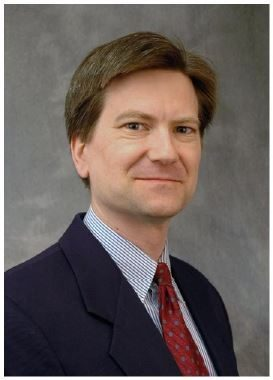
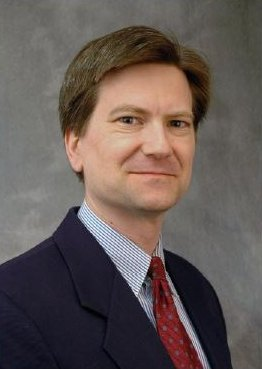
Drafts D-05: retitle "Meet Our Past Luminaries" + tighter intro copy; crop white frame off Burgdorf photo

diff --git a/index.html b/index.html
@@ -3379,9 +3379,8 @@ body.menu-open .site-header{ -webkit-backdrop-filter:none; backdrop-filter:none;
     </style>
     <div class="wrap">
       <div class="lum-head">
-        <span class="lum-eyebrow">Past Luminaries</span>
-        <h2>Honoring WILD!<br>Visionaries &amp; Luminaries</h2>
-        <p class="lum-intro">During our dinner in the Woods, we will announce sacred spaces that will be built on the land at Restore Forward in honor of supporters and partners of The Reconciliation Center, and women whose extraordinary work and enduring legacies enrich our lives.</p>
+        <h2>Meet Our &ldquo;Past&rdquo; Luminaries</h2>
+        <p class="lum-intro">Honoring our supporters and partners of The Reconciliation Center, whose extraordinary work and enduring legacies enrich our lives.</p>
       </div>
       <div class="lum-grid">
         <figure class="lum-card">

diff --git a/site-source.html b/site-source.html
@@ -3379,9 +3379,8 @@ body.menu-open .site-header{ -webkit-backdrop-filter:none; backdrop-filter:none;
     </style>
     <div class="wrap">
       <div class="lum-head">
-        <span class="lum-eyebrow">Past Luminaries</span>
-        <h2>Honoring WILD!<br>Visionaries &amp; Luminaries</h2>
-        <p class="lum-intro">During our dinner in the Woods, we will announce sacred spaces that will be built on the land at Restore Forward in honor of supporters and partners of The Reconciliation Center, and women whose extraordinary work and enduring legacies enrich our lives.</p>
+        <h2>Meet Our &ldquo;Past&rdquo; Luminaries</h2>
+        <p class="lum-intro">Honoring our supporters and partners of The Reconciliation Center, whose extraordinary work and enduring legacies enrich our lives.</p>
       </div>
       <div class="lum-grid">
         <figure class="lum-card">